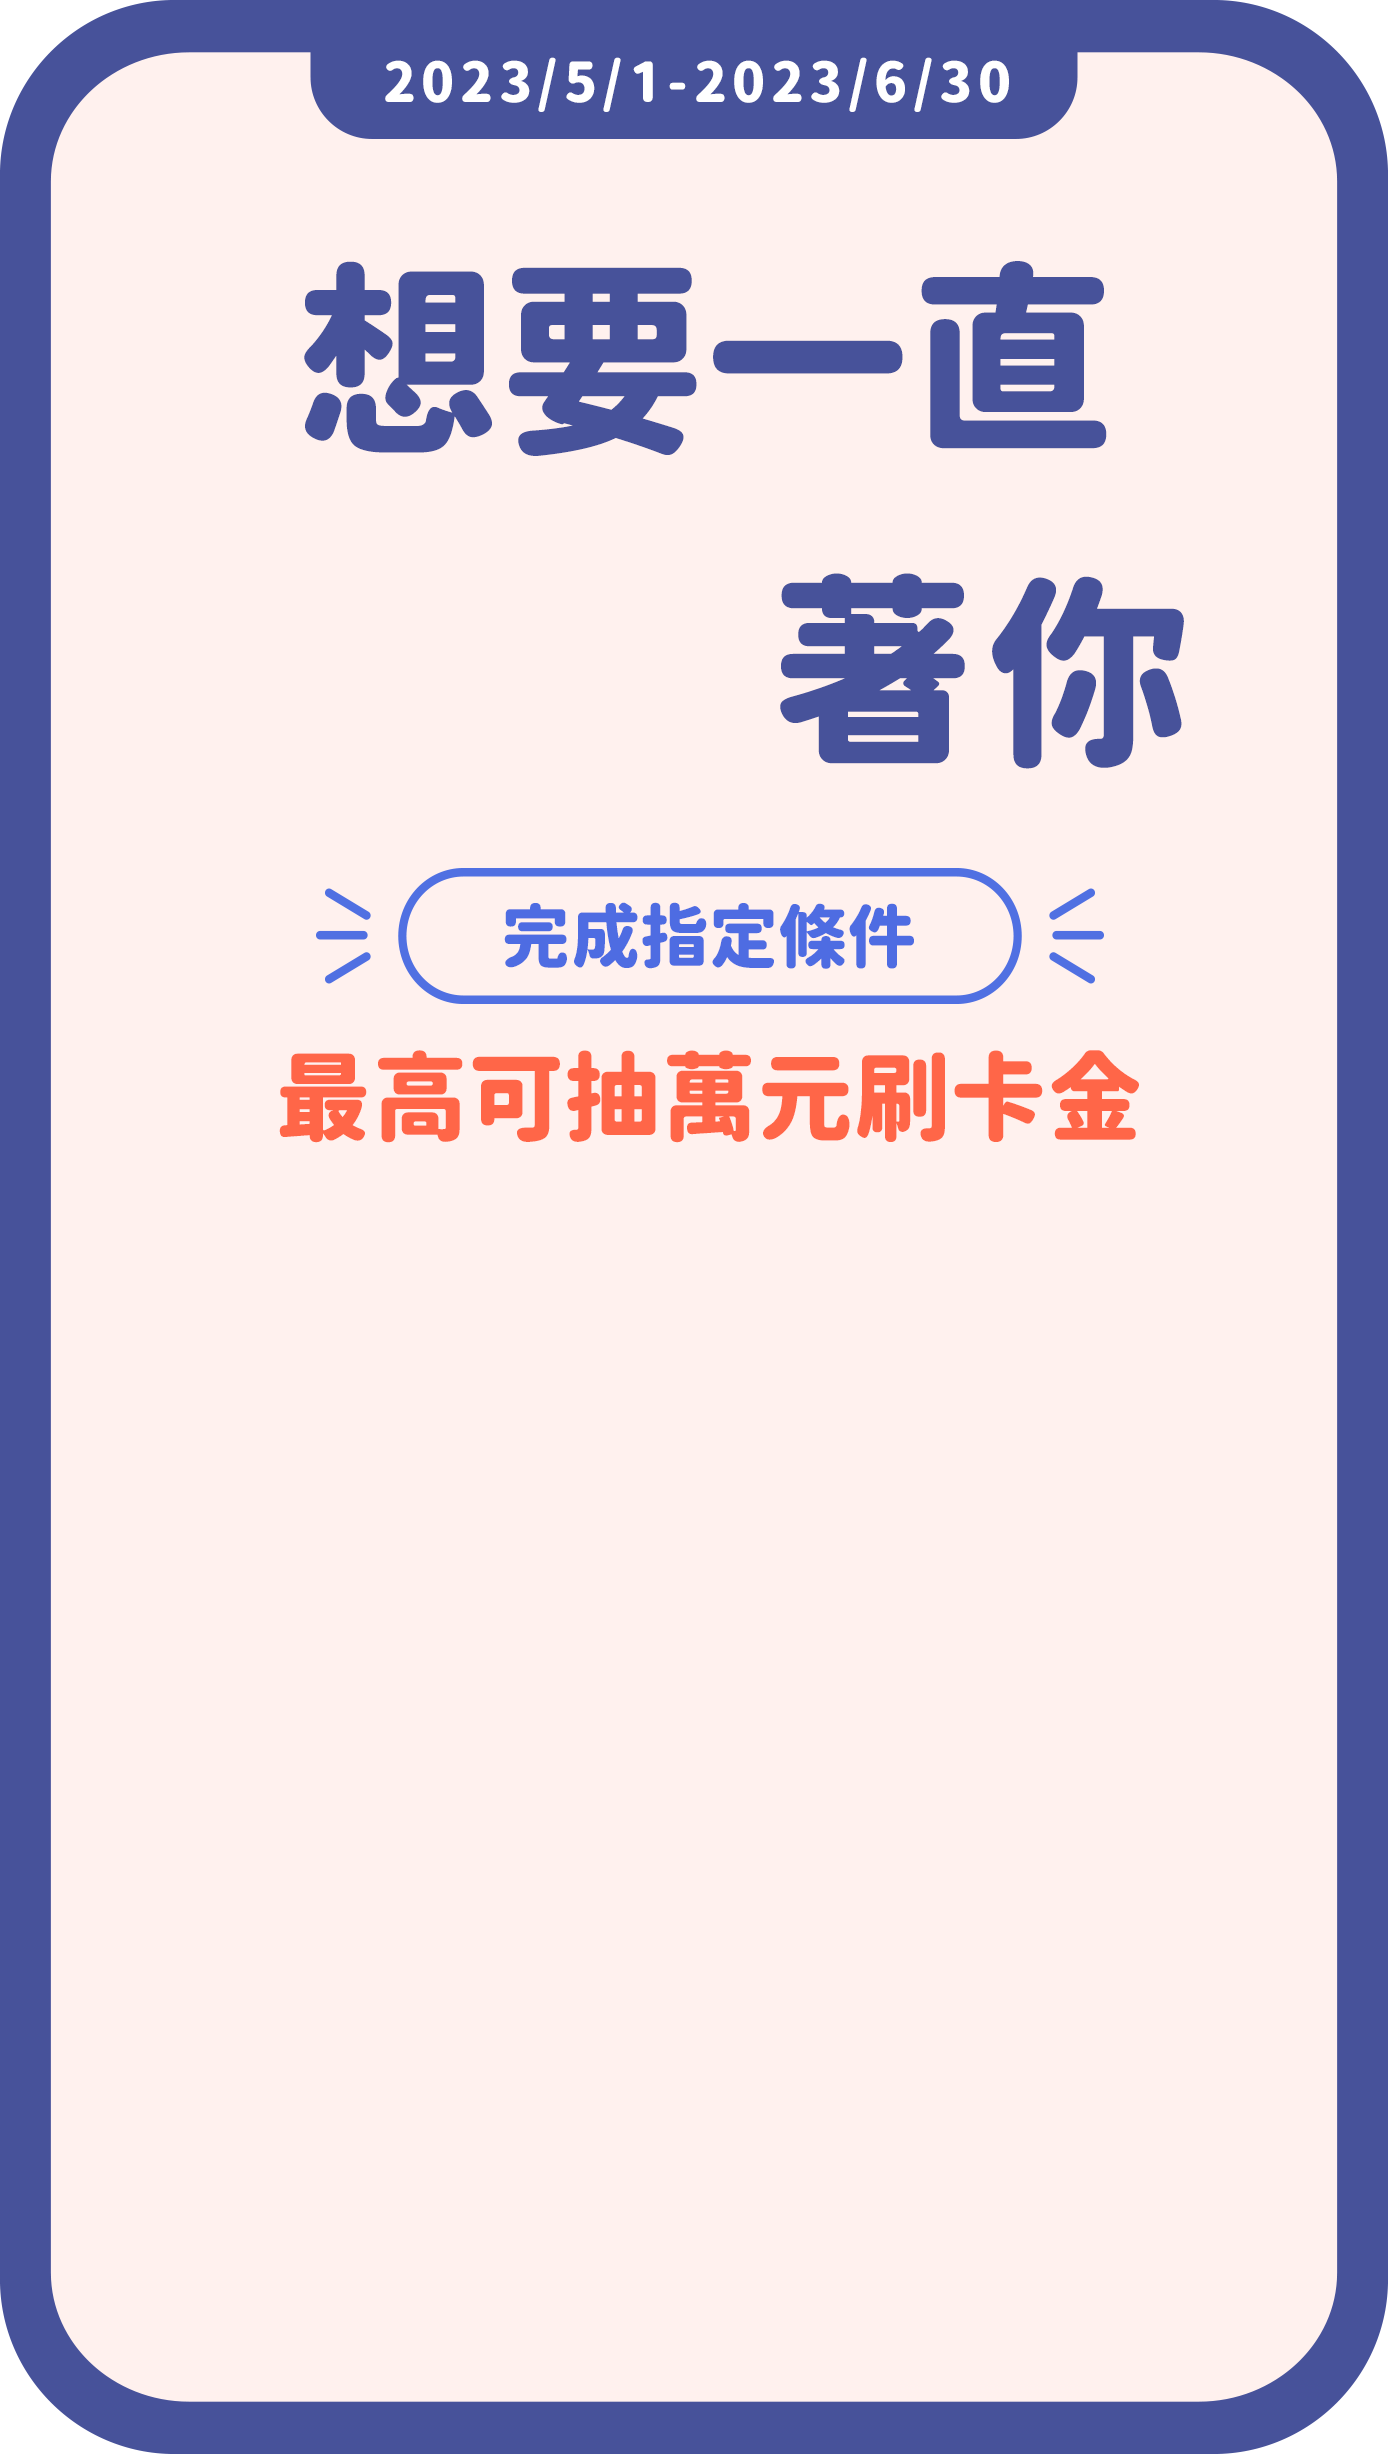
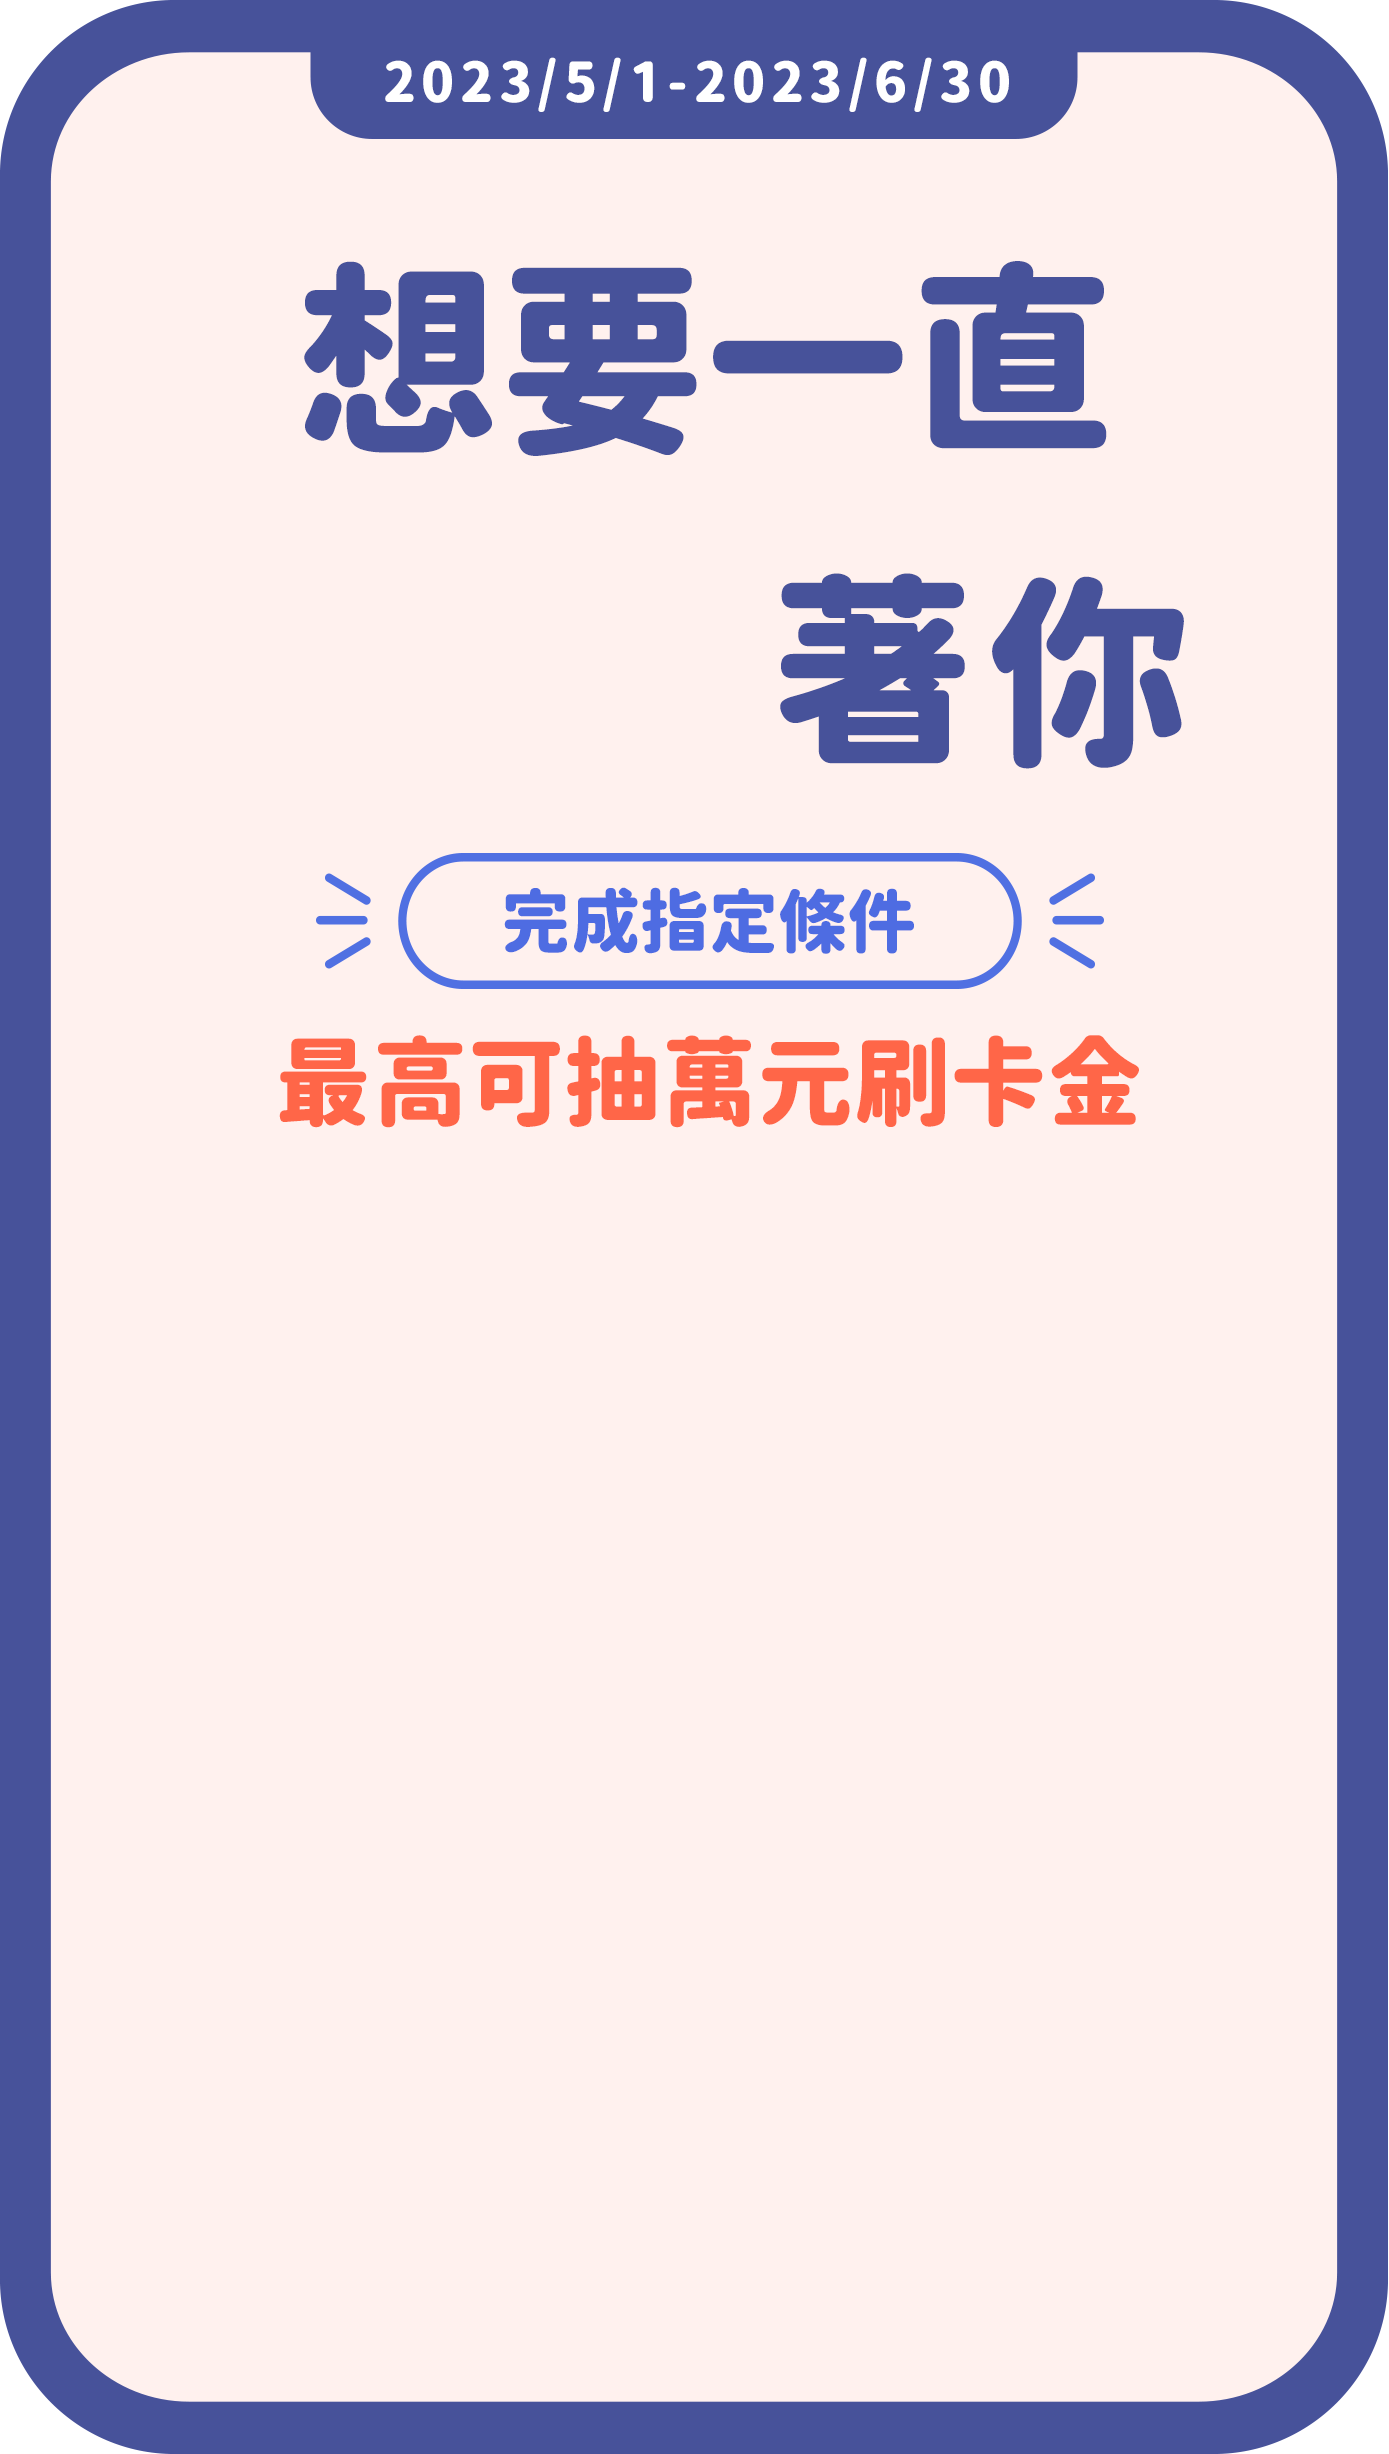
2

Changed region(s): [[0.1857, 0.3407, 0.8359, 0.4645]]

diff --git a/2023Q2/asset/css/main.css b/2023Q2/asset/css/main.css
@@ -738,7 +738,7 @@ body {
           left: 15%;
           height: 7.21271%; }
         .banner-phone .heart {
-          top: 43.47107%;
+          top: 42.7%;
           left: 11.3%;
           width: 78.1%; }
       .banner-man {
